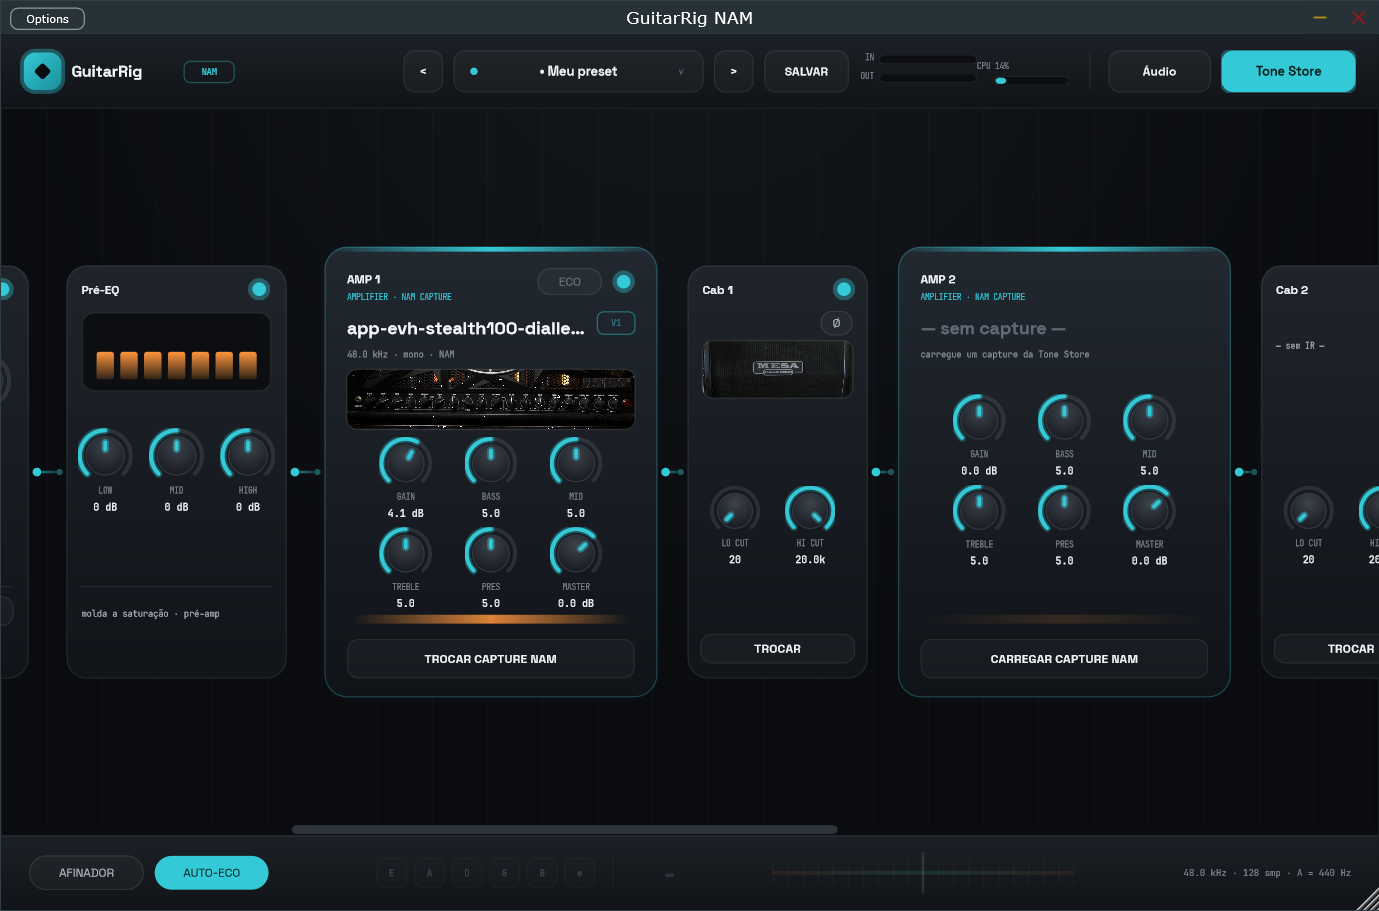
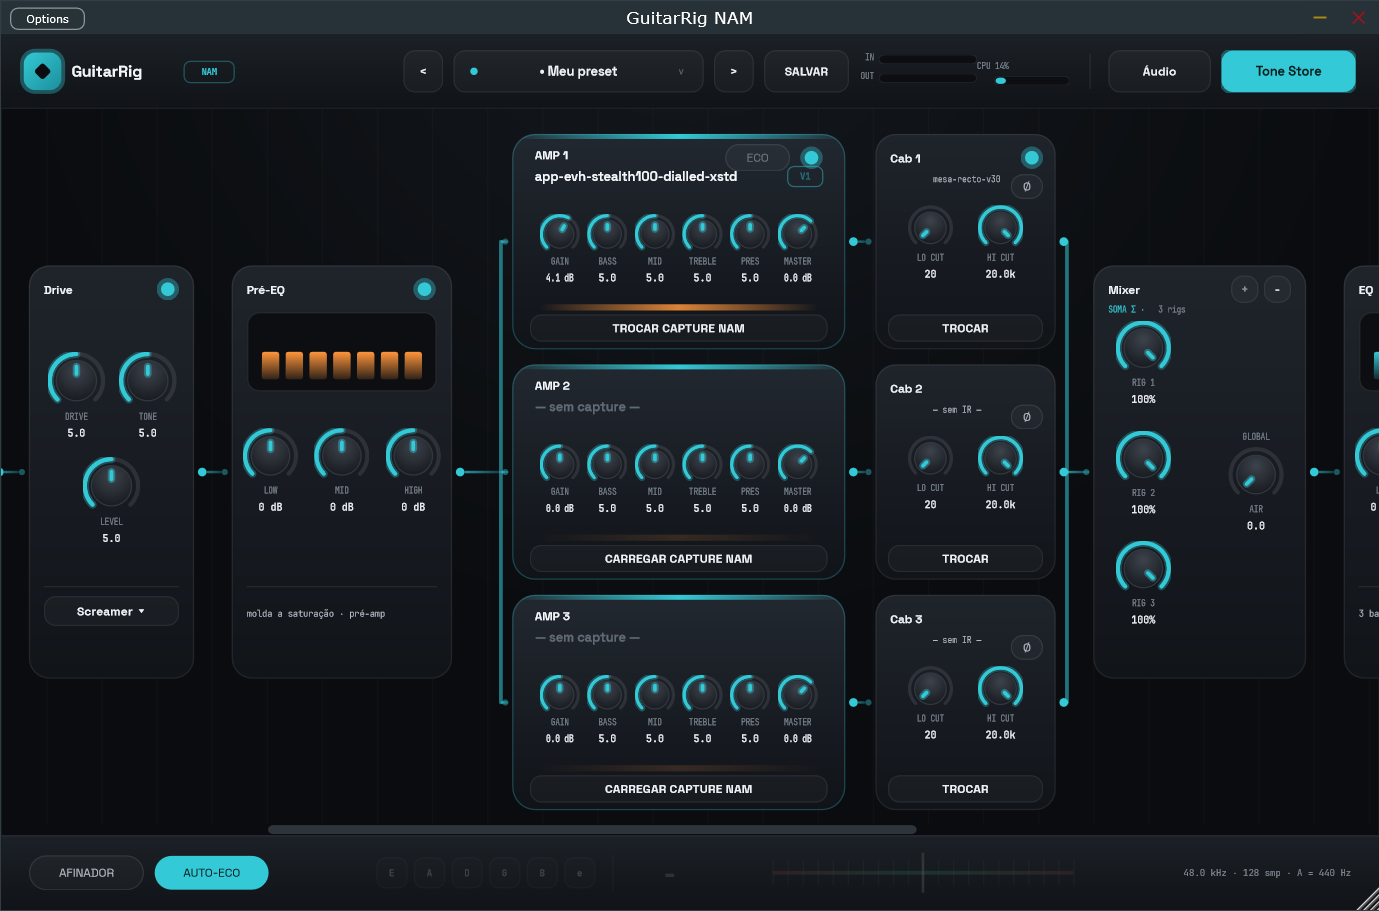
Rigs paralelos: visual em paralelo (lanes empilhadas + buses)
O bloco de rigs desenhava os pares AMP+CAB em fila com setas em serie,
contradizendo o processamento (que ja era paralelo). Agora, com 2-3
rigs, as lanes ficam EMPILHADAS verticalmente: bus de divisao do sinal
na entrada, um ramo AMP -> CAB por lane e bus de soma entrando no
Mixer. Com 1 rig o layout classico (card grande com foto) e mantido.

- Cards compactos por lane (6 knobs em linha unica, nome do capture no
  cabecalho, badge V1/V2, glow fino) quando ha 2-3 rigs
- Largura do bloco fica constante; a duplicacao cresce na vertical
- Screenshot da doc atualizado com os 3 rigs em paralelo

diff --git a/src/PluginEditor.cpp b/src/PluginEditor.cpp
@@ -507,10 +507,11 @@ ChainView::ChainView (GuitarRigNAMProcessor& p, std::function<void (int)> onLoad
     updateLayout();
 }
 
-// largura do bloco de rigs: N pares (amp 266 + 24 + cab 144) + Mixer 170
+// largura do bloco de rigs (lanes empilhadas, largura constante):
+// bus 18 + amp 266 + 24 + cab 144 + bus 18 + 12 + mixer 170
 int ChainView::rigBlockWidth() const
 {
-    return processor.getRigCount() * (266 + 24 + 144 + 24) + 170;
+    return 18 + 266 + 24 + 144 + 18 + 12 + 170;
 }
 
 void ChainView::updateLayout()
@@ -749,8 +750,16 @@ void ChainView::resized()
     {
         if (id == "amp")
         {
-            // pares AMP+CAB lado a lado, um por rig, e o Mixer no fim
+            // lanes AMP+CAB EMPILHADAS (paralelo de verdade): uma linha por
+            // rig, bus de divisão à esquerda e bus de soma entrando no Mixer
             const int count = processor.getRigCount();
+            const int rowGap = 12, busW = 18;
+            const int availH = H - 40;
+            const int rowH = juce::jmin (360, (availH - (count - 1) * rowGap) / count);
+            const int totalH = count * rowH + (count - 1) * rowGap;
+            const int topY = (H - totalH) / 2;
+            const int pairX = x + busW;
+
             for (int r = 0; r < GuitarRigNAMProcessor::maxRigs; ++r)
             {
                 if (r >= count)
@@ -758,13 +767,13 @@ void ChainView::resized()
                     ampLaneB[r] = cabLaneB[r] = {};
                     continue;
                 }
-                ampLaneB[r] = { x, cardY (360), 266, 360 };
-                x += 266 + 24;
-                cabLaneB[r] = { x, cardY (330), 144, 330 };
-                x += 144 + 24;
+                const int ry = topY + r * (rowH + rowGap);
+                const int cabH = juce::jmin (rowH, 330);
+                ampLaneB[r] = { pairX, ry, 266, rowH };
+                cabLaneB[r] = { pairX + 266 + 24, ry + (rowH - cabH) / 2, 144, cabH };
             }
-            mixerB = { x, cardY (330), 170, 330 };
-            x += 170 + 30;
+            mixerB = { pairX + 266 + 24 + 144 + busW + 12, cardY (330), 170, 330 };
+            x = mixerB.getRight() + 30;
         }
         else
         {
@@ -866,6 +875,7 @@ void ChainView::resized()
             const bool active = r < count;
             const auto ampB = ampLaneB[r];
             const auto cabB = cabLaneB[r];
+            const bool compact = ampB.getHeight() < 300; // 2-3 rigs empilhados
 
             for (auto* k : { ampGainKnob[r].get(), ampBassKnob[r].get(), ampMidKnob[r].get(),
                              ampTrebleKnob[r].get(), ampPresKnob[r].get(), ampMasterKnob[r].get() })
@@ -879,32 +889,61 @@ void ChainView::resized()
             if (! active)
                 continue;
 
-            // amp da lane (foto opcional entre o cabeçalho e os knobs)
+            // amp da lane
             if (r == 0)
             {
-                ampLed.setBounds (ampB.getRight() - 18 - 18, ampB.getY() + 19, 18, 18);
-                ecoChip.setBounds (ampB.getRight() - 18 - 18 - 8 - 52, ampB.getY() + 17, 52, 22);
+                ampLed.setBounds (ampB.getRight() - 18 - 18, ampB.getY() + (compact ? 10 : 19), 18, 18);
+                ecoChip.setBounds (ampLed.getX() - 8 - 52, ampB.getY() + (compact ? 8 : 17), 52, 22);
             }
-            const bool photo = ampImages[r].isValid();
-            const int kw = 42, kh = kw + 26, gapX = 26, gapY = 4;
-            const int gx = ampB.getX() + (266 - (3 * kw + 2 * gapX)) / 2;
-            const int gy = ampB.getY() + (photo ? 152 : 118);
+
             KnobComponent* grid[6] = { ampGainKnob[r].get(), ampBassKnob[r].get(),
                                        ampMidKnob[r].get(), ampTrebleKnob[r].get(),
                                        ampPresKnob[r].get(), ampMasterKnob[r].get() };
-            for (int i = 0; i < 6; ++i)
-                grid[i]->setBounds (gx + (i % 3) * (kw + gapX), gy + (i / 3) * (kh + gapY), kw, kh);
+            if (! compact)
+            {
+                // grade 3x2 clássica (foto opcional entre cabeçalho e knobs)
+                const bool photo = ampImages[r].isValid();
+                const int kw = 42, kh = kw + 26, gapX = 26, gapY = 4;
+                const int gx = ampB.getX() + (266 - (3 * kw + 2 * gapX)) / 2;
+                const int gy = ampB.getY() + (photo ? 152 : 118);
+                for (int i = 0; i < 6; ++i)
+                    grid[i]->setBounds (gx + (i % 3) * (kw + gapX), gy + (i / 3) * (kh + gapY), kw, kh);
 
-            loadButtons[r].setBounds (ampB.getX() + 18, ampB.getBottom() - 15 - 32, 266 - 36, 32);
+                loadButtons[r].setBounds (ampB.getX() + 18, ampB.getBottom() - 15 - 32, 266 - 36, 32);
+            }
+            else
+            {
+                // linha única de 6 knobs menores
+                const int kw = 32, kh = kw + 26, gapX = 6;
+                const int gx = ampB.getX() + (266 - (6 * kw + 5 * gapX)) / 2;
+                const int gy = ampB.getY() + 46 + (ampB.getHeight() - 46 - 32 - kh) / 2;
+                for (int i = 0; i < 6; ++i)
+                    grid[i]->setBounds (gx + i * (kw + gapX), gy, kw, kh);
+
+                loadButtons[r].setBounds (ampB.getX() + 14, ampB.getBottom() - 28, 266 - 28, 22);
+            }
 
             // cab da lane
             if (r == 0)
                 cabLed.setBounds (cabB.getRight() - 10 - 18, cabB.getY() + 10, 18, 18);
-            cabPhaseChips[r].setBounds (cabB.getRight() - 12 - 26, cabB.getY() + 36, 26, 20);
-            cabLcKnob[r]->setBounds (cabB.getX() + 18, cabB.getY() + 176, 40, 40 + 26);
-            cabHcKnob[r]->setBounds (cabB.getX() + 78, cabB.getY() + 176, 40, 40 + 26);
-            cabIrButtons[r].setBounds (cabB.getX() + 10, cabB.getBottom() - 12 - 24,
-                                       cabB.getWidth() - 20, 24);
+            if (! compact)
+            {
+                cabPhaseChips[r].setBounds (cabB.getRight() - 12 - 26, cabB.getY() + 36, 26, 20);
+                cabLcKnob[r]->setBounds (cabB.getX() + 18, cabB.getY() + 176, 40, 40 + 26);
+                cabHcKnob[r]->setBounds (cabB.getX() + 78, cabB.getY() + 176, 40, 40 + 26);
+                cabIrButtons[r].setBounds (cabB.getX() + 10, cabB.getBottom() - 12 - 24,
+                                           cabB.getWidth() - 20, 24);
+            }
+            else
+            {
+                cabPhaseChips[r].setBounds (cabB.getRight() - 10 - 26, cabB.getY() + 32, 26, 20);
+                const int kh2 = 36 + 26;
+                const int ky = cabB.getY() + 34 + (cabB.getHeight() - 34 - 30 - kh2) / 2;
+                cabLcKnob[r]->setBounds (cabB.getX() + 26, ky, 36, kh2);
+                cabHcKnob[r]->setBounds (cabB.getX() + 82, ky, 36, kh2);
+                cabIrButtons[r].setBounds (cabB.getX() + 10, cabB.getBottom() - 28,
+                                           cabB.getWidth() - 20, 22);
+            }
         }
 
         // Mixer: +/- de rigs, blend por lane e AIR global
@@ -1012,12 +1051,62 @@ void ChainView::paint (juce::Graphics& g)
             if (e.id == "amp")
             {
                 const int count = processor.getRigCount();
-                for (int r = 0; r < count; ++r)
+
+                if (count == 1)
                 {
-                    connector (r == 0 ? prev : cabLaneB[r - 1], ampLaneB[r]);
-                    connector (ampLaneB[r], cabLaneB[r]);
+                    connector (prev, ampLaneB[0]);
+                    connector (ampLaneB[0], cabLaneB[0]);
+                    connector (cabLaneB[0], mixerB);
                 }
-                connector (cabLaneB[count - 1], mixerB);
+                else
+                {
+                    // topologia PARALELA: nó de divisão -> um ramo por lane
+                    // (amp -> cab) -> bus de soma que entra no Mixer
+                    auto hLine = [&g] (float x1, float x2, float y)
+                    {
+                        g.setGradientFill ({ ui::accent.withAlpha (0.7f), x1, 0.0f,
+                                             ui::accent.withAlpha (0.25f), x2, 0.0f, false });
+                        g.fillRoundedRectangle (x1, y - 1.0f, x2 - x1, 2.0f, 1.0f);
+                    };
+                    auto vBar = [&g] (float x, float y1, float y2)
+                    {
+                        g.setColour (ui::accent.withAlpha (0.55f));
+                        g.fillRoundedRectangle (x - 1.5f, y1 - 1.5f, 3.0f, y2 - y1 + 3.0f, 1.5f);
+                    };
+
+                    const float busInX = (float) ampLaneB[0].getX() - 9.0f;
+                    const float busOutX = (float) cabLaneB[0].getRight() + 9.0f;
+                    const float yPrev = (float) prev.getCentreY();
+                    const float yMix = (float) mixerB.getCentreY();
+                    const float yTop = (float) ampLaneB[0].getCentreY();
+                    const float yBot = (float) ampLaneB[count - 1].getCentreY();
+
+                    // divisão do sinal seco
+                    g.setColour (ui::accent);
+                    g.fillEllipse ((float) prev.getRight() + 3.0f, yPrev - 3.5f, 7.0f, 7.0f);
+                    hLine ((float) prev.getRight() + 10.0f, busInX, yPrev);
+                    vBar (busInX, juce::jmin (yTop, yPrev), juce::jmax (yBot, yPrev));
+
+                    for (int r = 0; r < count; ++r)
+                    {
+                        const float ry = (float) ampLaneB[r].getCentreY();
+                        hLine (busInX, (float) ampLaneB[r].getX() - 3.0f, ry);
+                        g.setColour (ui::accent.withAlpha (0.4f));
+                        g.fillEllipse ((float) ampLaneB[r].getX() - 8.0f, ry - 2.5f, 5.0f, 5.0f);
+
+                        connector (ampLaneB[r], cabLaneB[r]);
+
+                        // saída da lane -> bus de soma
+                        g.setColour (ui::accent);
+                        g.fillEllipse ((float) cabLaneB[r].getRight() + 3.0f, ry - 3.5f, 7.0f, 7.0f);
+                        hLine ((float) cabLaneB[r].getRight() + 10.0f, busOutX, ry);
+                    }
+
+                    vBar (busOutX, juce::jmin (yTop, yMix), juce::jmax (yBot, yMix));
+                    hLine (busOutX, (float) mixerB.getX() - 3.0f, yMix);
+                    g.setColour (ui::accent.withAlpha (0.4f));
+                    g.fillEllipse ((float) mixerB.getX() - 8.0f, yMix - 2.5f, 5.0f, 5.0f);
+                }
                 prev = mixerB;
             }
             else
@@ -1103,6 +1192,7 @@ void ChainView::paint (juce::Graphics& g)
         for (int s = 0; s < count; ++s)
         {
             const auto cabB = cabLaneB[s];
+            const bool compact = cabB.getHeight() < 300;
             drawPedalFrame (g, cabB, count > 1 ? "Cab " + juce::String (s + 1)
                                                : juce::String ("Cab IR"), {});
 
@@ -1110,16 +1200,17 @@ void ChainView::paint (juce::Graphics& g)
             if (const auto irArch = archBadgeForIr (s); irArch.isNotEmpty())
             {
                 auto badge = juce::Rectangle<float> ((float) cabB.getX() + 12.0f,
-                                                     (float) cabB.getY() + 38.0f, 26.0f, 15.0f);
+                                                     (float) cabB.getY() + (compact ? 32.0f : 38.0f),
+                                                     26.0f, 15.0f);
                 g.setColour (ui::accent.withAlpha (irArch == "V2" ? 0.9f : 0.45f));
                 g.drawRoundedRectangle (badge, 4.0f, 1.0f);
                 g.setFont (ui::monoFont (8.0f, true));
                 g.drawText (irArch, badge, juce::Justification::centred);
             }
 
-            // foto ou nome do IR
+            // foto (só no card grande) ou nome do IR
             const auto irName = processor.getIrName (s);
-            if (cabImages[s].isValid())
+            if (! compact && cabImages[s].isValid())
             {
                 drawPhoto (g, cabImages[s], { cabB.getX() + 12, cabB.getY() + 60,
                                               cabB.getWidth() - 24, 46 });
@@ -1131,8 +1222,9 @@ void ChainView::paint (juce::Graphics& g)
                 g.drawFittedText (irName.isNotEmpty()
                                       ? irName
                                       : juce::String (juce::CharPointer_UTF8 ("\xe2\x80\x94 sem IR \xe2\x80\x94")),
-                                  cabB.getX() + 12, cabB.getY() + 60, cabB.getWidth() - 24, 34,
-                                  juce::Justification::topLeft, 3);
+                                  cabB.getX() + (compact ? 46 : 12), cabB.getY() + (compact ? 32 : 60),
+                                  cabB.getWidth() - (compact ? 84 : 24), compact ? 22 : 34,
+                                  juce::Justification::topLeft, compact ? 2 : 3);
             }
         }
     }
@@ -1191,6 +1283,7 @@ void ChainView::paint (juce::Graphics& g)
     for (int lane = 0; lane < processor.getRigCount(); ++lane)
     {
         const auto ampB = ampLaneB[lane];
+        const bool compact = ampB.getHeight() < 300;
         auto bf = ampB.toFloat();
         g.setGradientFill ({ ui::ampTop, 0.0f, bf.getY(), ui::ampBottom, 0.0f, bf.getBottom(), false });
         g.fillRoundedRectangle (bf, 18.0f);
@@ -1211,65 +1304,90 @@ void ChainView::paint (juce::Graphics& g)
             g.restoreState();
         }
 
+        const auto modelName = processor.getModelName (lane);
+
         g.setFont (ui::uiFont (12.0f, true));
         g.setColour (ui::textBright);
         g.drawText (processor.getRigCount() > 1 ? "AMP " + juce::String (lane + 1)
                                                 : juce::String ("AMP HEAD"),
-                    ampB.getX() + 18, ampB.getY() + 19, 170, 14,
+                    ampB.getX() + 18, ampB.getY() + (compact ? 10 : 19), 170, 14,
                     juce::Justification::centredLeft);
-        g.setFont (ui::monoFont (8.0f));
-        g.setColour (ui::accent);
-        g.drawText (juce::CharPointer_UTF8 ("AMPLIFIER \xc2\xb7 NAM CAPTURE"),
-                    ampB.getX() + 18, ampB.getY() + 35, 180, 11, juce::Justification::centredLeft);
 
-        const auto modelName = processor.getModelName (lane);
-        g.setFont (ui::uiFont (18.0f, true));
-        g.setColour (modelName.isNotEmpty() ? ui::textBright : ui::textMuted);
-        // -40 reserva o canto direito para o badge V1/V2
-        g.drawText (modelName.isNotEmpty() ? modelName
-                                           : juce::String (juce::CharPointer_UTF8 ("\xe2\x80\x94 sem capture \xe2\x80\x94")),
-                    ampB.getX() + 18, ampB.getY() + 54, ampB.getWidth() - 36 - 40, 22,
-                    juce::Justification::centredLeft);
+        if (compact)
+        {
+            // nome do capture na linha abaixo do título (sem subtítulo/info)
+            g.setFont (ui::uiFont (13.0f, true));
+            g.setColour (modelName.isNotEmpty() ? ui::textBright : ui::textMuted);
+            g.drawText (modelName.isNotEmpty()
+                            ? modelName
+                            : juce::String (juce::CharPointer_UTF8 ("\xe2\x80\x94 sem capture \xe2\x80\x94")),
+                        ampB.getX() + 18, ampB.getY() + 26, ampB.getWidth() - 36 - 34, 16,
+                        juce::Justification::centredLeft);
+        }
+        else
+        {
+            g.setFont (ui::monoFont (8.0f));
+            g.setColour (ui::accent);
+            g.drawText (juce::CharPointer_UTF8 ("AMPLIFIER \xc2\xb7 NAM CAPTURE"),
+                        ampB.getX() + 18, ampB.getY() + 35, 180, 11, juce::Justification::centredLeft);
+
+            g.setFont (ui::uiFont (18.0f, true));
+            g.setColour (modelName.isNotEmpty() ? ui::textBright : ui::textMuted);
+            // -40 reserva o canto direito para o badge V1/V2
+            g.drawText (modelName.isNotEmpty() ? modelName
+                                               : juce::String (juce::CharPointer_UTF8 ("\xe2\x80\x94 sem capture \xe2\x80\x94")),
+                        ampB.getX() + 18, ampB.getY() + 54, ampB.getWidth() - 36 - 40, 22,
+                        juce::Justification::centredLeft);
+        }
 
         // badge V1/V2 da arquitetura do capture
         const auto archLabel = processor.getModelArchLabel (lane);
         if (archLabel.isNotEmpty() && modelName.isNotEmpty())
         {
-            auto badge = juce::Rectangle<float> ((float) ampB.getRight() - 18.0f - 30.0f,
-                                                 (float) ampB.getY() + 52.0f, 30.0f, 18.0f);
+            auto badge = compact
+                             ? juce::Rectangle<float> ((float) ampB.getRight() - 18.0f - 28.0f,
+                                                       (float) ampB.getY() + 26.0f, 28.0f, 16.0f)
+                             : juce::Rectangle<float> ((float) ampB.getRight() - 18.0f - 30.0f,
+                                                       (float) ampB.getY() + 52.0f, 30.0f, 18.0f);
             g.setColour (ui::accent.withAlpha (archLabel == "V2" ? 0.9f : 0.45f));
             g.drawRoundedRectangle (badge, 5.0f, 1.0f);
             g.setFont (ui::monoFont (9.0f, true));
             g.drawText (archLabel, badge, juce::Justification::centred);
         }
 
-        const auto dot = juce::String::fromUTF8 (" \xc2\xb7 ");
-        juce::String info;
-        const double modelSr = processor.getModelExpectedSampleRate (lane);
-        if (modelName.isNotEmpty())
+        if (! compact)
         {
-            info = (modelSr > 0 ? juce::String (modelSr / 1000.0, 1) + " kHz" + dot : juce::String())
-                   + "mono" + dot + "NAM";
-            if (processor.isResampling (lane))
-                info += dot + "resample";
-        }
-        else
-        {
-            info = "carregue um capture da Tone Store";
-        }
-        g.setFont (ui::monoFont (9.0f));
-        g.setColour (juce::Colour (0xff8a929c));
-        g.drawText (info, ampB.getX() + 18, ampB.getY() + 80, ampB.getWidth() - 36, 12,
-                    juce::Justification::centredLeft);
+            const auto dot = juce::String::fromUTF8 (" \xc2\xb7 ");
+            juce::String info;
+            const double modelSr = processor.getModelExpectedSampleRate (lane);
+            if (modelName.isNotEmpty())
+            {
+                info = (modelSr > 0 ? juce::String (modelSr / 1000.0, 1) + " kHz" + dot : juce::String())
+                       + "mono" + dot + "NAM";
+                if (processor.isResampling (lane))
+                    info += dot + "resample";
+            }
+            else
+            {
+                info = "carregue um capture da Tone Store";
+            }
+            g.setFont (ui::monoFont (9.0f));
+            g.setColour (juce::Colour (0xff8a929c));
+            g.drawText (info, ampB.getX() + 18, ampB.getY() + 80, ampB.getWidth() - 36, 12,
+                        juce::Justification::centredLeft);
 
-        if (ampImages[lane].isValid())
-            drawPhoto (g, ampImages[lane],
-                       { ampB.getX() + 18, ampB.getY() + 98, ampB.getWidth() - 36, 48 });
+            if (ampImages[lane].isValid())
+                drawPhoto (g, ampImages[lane],
+                           { ampB.getX() + 18, ampB.getY() + 98, ampB.getWidth() - 36, 48 });
+        }
 
         // barra de brilho (valvulado — laranja, como no design)
         {
-            auto glow = juce::Rectangle<float> (bf.getX() + 22.0f, bf.getBottom() - 66.0f,
-                                                bf.getWidth() - 44.0f, 7.0f);
+            auto glow = compact
+                            ? juce::Rectangle<float> (bf.getX() + 22.0f, bf.getBottom() - 36.0f,
+                                                      bf.getWidth() - 44.0f, 5.0f)
+                            : juce::Rectangle<float> (bf.getX() + 22.0f, bf.getBottom() - 66.0f,
+                                                      bf.getWidth() - 44.0f, 7.0f);
             const float alpha = processor.hasModelLoaded (lane)
                                     && processor.apvts.getRawParameterValue ("ampOn")->load() > 0.5f
                                 ? 0.85f : 0.15f;

diff --git a/README.md b/README.md
@@ -109,6 +109,7 @@ Dados do usuário (fora do repo): `Documentos\GuitarRig NAM\` — `Captures/`, `
 **Fase 8 — rigs paralelos AMP+CAB (concluída):**
 - [x] Arquitetura corrigida: cada lane paralela é um par **AMP+CAB** completo (capture NAM com knobs próprios + IR), não só IRs em paralelo
 - [x] Card **Mixer** dedicado: soma das lanes com blend por rig, AIR global e botões +/− que adicionam/removem o par inteiro (mín. 1, máx. 3)
+- [x] Visual em paralelo de verdade: lanes **empilhadas** com bus de divisão na entrada e bus de soma no Mixer (com 1 rig, mantém o card grande clássico)
 
 ![Rigs paralelos](docs/screenshots/rigs-paralelos.png)
 
